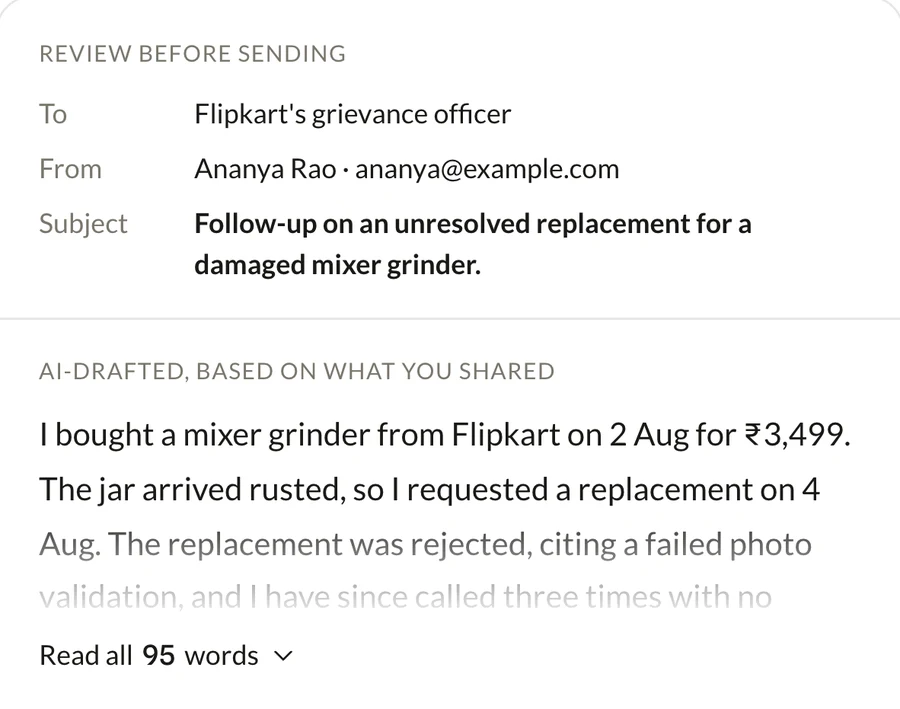
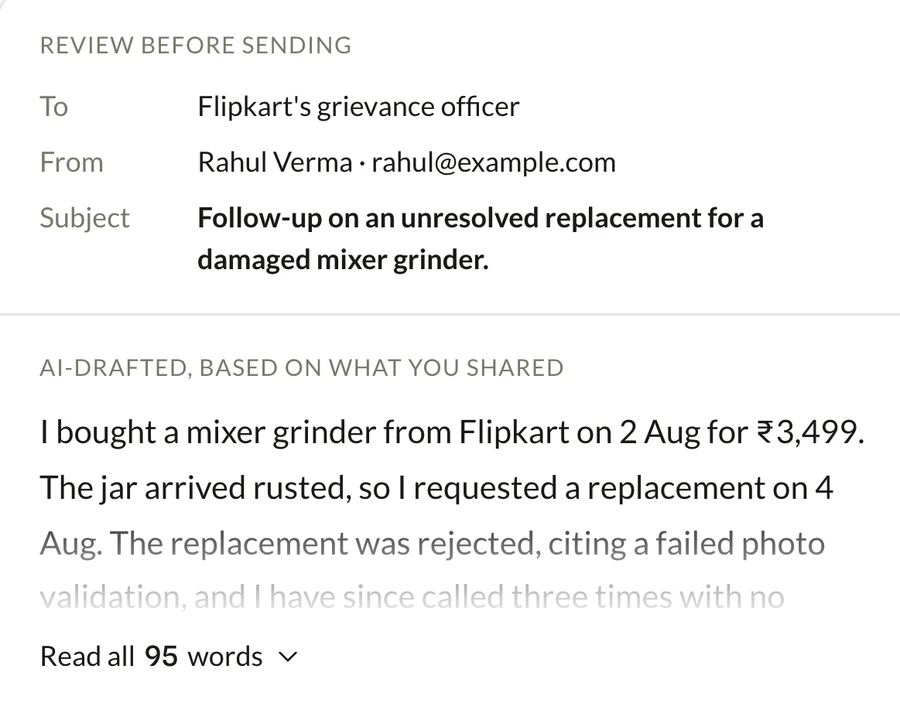
Getbaq walkthrough: one row per phase, the real screen beside it at a readable size; Act screen recaptured with the neutral sample name

diff --git a/getbaq.html b/getbaq.html
@@ -1307,6 +1307,25 @@ html:not(.gb-end) .askdock.is-on{opacity:0!important;visibility:hidden!important
 
 /* the section list stays above the tinted bands, which are positioned and would paint over it */
 .cx-rail{z-index:5}
+
+/* walkthrough: one row per phase on wide screens — the phase and who owns each
+   step on the left, its real screen at a readable size on the right */
+@media(min-width:861px){
+  .cx-trace{grid-template-columns:1fr;gap:0;padding:0 0 0 var(--sp-24)}
+  .cx-trace:before{left:5px;right:auto;top:10px;bottom:10px;width:1.5px;height:auto}
+  .cx-tr-ph{display:grid;grid-template-columns:minmax(0,5fr) minmax(0,7fr);grid-template-rows:auto auto auto 1fr;column-gap:var(--sp-48);padding-bottom:var(--sp-64)}
+  .cx-tr-ph:last-child{padding-bottom:0}
+  .cx-tr-ph:before{left:-24px;top:5px}
+  .cx-tr-n,.cx-tr-s,.cx-tr-steps{grid-column:1}
+  .cx-tr-n{font-size:20px}
+  .cx-tr-steps{margin:0}
+  .cx-tr-ph .cx-pv{grid-column:2;grid-row:1/span 4;margin:0;align-self:start;max-width:none}
+  .cx-tr-ph .cx-zoom img{height:auto}
+  .cx-vis > .cx-legend{margin-top:var(--sp-48)!important}
+}
+.cx-tr-steps li{grid-template-columns:auto 1fr;grid-template-rows:auto auto;align-content:start;column-gap:10px;row-gap:2px}
+.cx-tr-steps .cx-own{grid-column:1;grid-row:1/span 2;align-self:start}
+.cx-tr-steps b,.cx-tr-steps span:not(.cx-own){grid-column:2}
 </style><script defer src="./analytics.js?v=3"></script>
 <script defer src="https://umami-swart-five.vercel.app/script.js" data-website-id="5a59e8a0-e996-42f4-a248-fcf582413c76" data-domains="lokeshbhatia.com,www.lokeshbhatia.com" data-exclude-hash="true" data-before-send="pfBeforeSend"></script>
 <script>
@@ -1403,7 +1422,7 @@ addEventListener("pagereveal",function(e){
 </section>
 <section class="cx-sec " id="walkthrough" data-reveal="">
 <div class="cx-w cx-head "><p class="cx-label">Walkthrough</p><h2 class="cx-h">From messy input to resolution.</h2><p class="cx-lead">One representative case, end to end. Every step says who owns it.</p></div>
-<div class="cx-w cx-vis"><ol class="cx-trace" aria-label="One case, end to end, in four phases"><li class="cx-tr-ph"><p class="cx-tr-n">Understand</p><p class="cx-tr-s">Messy input becomes facts</p><ol class="cx-tr-steps"><li><span class="cx-own o-you"><svg viewBox="0 0 16 16" aria-hidden="true"><circle cx="8" cy="5.5" r="2.5"/><path d="M3 14a5 5 0 0 1 10 0"/></svg>You</span><b>Input</b><span>A screenshot, a chat or typed words</span></li><li><span class="cx-own o-ai"><svg viewBox="0 0 16 16" aria-hidden="true"><path d="M7 1.5 8.4 5.6 12.5 7 8.4 8.4 7 12.5 5.6 8.4 1.5 7l4.1-1.4z"/><path d="M12.5 10.5v4M10.5 12.5h4"/></svg>AI</span><b>Understand</b><span>Flipkart · ₹3,499 · 2 Aug</span></li></ol><figure class="cx-pv cx-pv-sm"><div class="cx-pv-f"><button type="button" class="cx-zoom" data-zoom="./assets/gbf-understand.webp" data-alt="The case file, What I know: Flipkart, ₹3,499, 2 Aug 2026, first complaint 4 Aug 2026" aria-label="Enlarge: The case file, What I know: Flipkart, ₹3,499, 2 Aug 2026, first complaint 4 Aug 2026"><img src="./assets/gbf-understand.webp" width="900" height="438" alt="The case file, What I know: Flipkart, ₹3,499, 2 Aug 2026, first complaint 4 Aug 2026" loading="lazy" decoding="async"><span class="cx-zoom-i"><svg viewBox="0 0 24 24" aria-hidden="true"><path d="M15 3h6v6M9 21H3v-6M21 3l-7 7M3 21l7-7"/></svg></span></button></div></figure></li><li class="cx-tr-ph"><p class="cx-tr-n">Verify</p><p class="cx-tr-s">A sourced rule, then a date</p><ol class="cx-tr-steps"><li><span class="cx-own o-rule"><svg viewBox="0 0 16 16" aria-hidden="true"><path d="M4 1.5h5l3 3v10H4z"/><path d="M9 1.5v3h3M6 8h4M6 10.5h4"/></svg>Rule</span><b>Verify</b><span>E-Commerce Rules 2020 · 4(4)</span></li><li><span class="cx-own o-code"><svg viewBox="0 0 16 16" aria-hidden="true"><path d="M5.5 4.5 2 8l3.5 3.5M10.5 4.5 14 8l-3.5 3.5"/></svg>Code</span><b>Calculate</b><span>Reply by 3 Sep 2026</span></li></ol><figure class="cx-pv cx-pv-sm"><div class="cx-pv-f"><button type="button" class="cx-zoom" data-zoom="./assets/gbf-calculate.webp" data-alt="The deadline card: Flipkart must fix this by 3 Sep 2026, 20 days left" aria-label="Enlarge: The deadline card: Flipkart must fix this by 3 Sep 2026, 20 days left"><img src="./assets/gbf-calculate.webp" width="900" height="435" alt="The deadline card: Flipkart must fix this by 3 Sep 2026, 20 days left" loading="lazy" decoding="async"><span class="cx-zoom-i"><svg viewBox="0 0 24 24" aria-hidden="true"><path d="M15 3h6v6M9 21H3v-6M21 3l-7 7M3 21l7-7"/></svg></span></button></div></figure></li><li class="cx-tr-ph"><p class="cx-tr-n">Act</p><p class="cx-tr-s">A draft, checked, then approved</p><ol class="cx-tr-steps"><li><span class="cx-own o-ai"><svg viewBox="0 0 16 16" aria-hidden="true"><path d="M7 1.5 8.4 5.6 12.5 7 8.4 8.4 7 12.5 5.6 8.4 1.5 7l4.1-1.4z"/><path d="M12.5 10.5v4M10.5 12.5h4"/></svg>AI</span><b>Draft</b><span>A short, factual complaint</span></li><li><span class="cx-own o-code"><svg viewBox="0 0 16 16" aria-hidden="true"><path d="M5.5 4.5 2 8l3.5 3.5M10.5 4.5 14 8l-3.5 3.5"/></svg>Code</span><b>Safety check</b><span>Facts, rule and recipient checked</span></li><li><span class="cx-own o-you"><svg viewBox="0 0 16 16" aria-hidden="true"><circle cx="8" cy="5.5" r="2.5"/><path d="M3 14a5 5 0 0 1 10 0"/></svg>You</span><b>Approve</b><span>Nothing is sent without it</span></li></ol><figure class="cx-pv cx-pv-sm"><div class="cx-pv-f"><button type="button" class="cx-zoom" data-zoom="./assets/gbf-act.webp" data-alt="Review before sending: to Flipkart’s grievance officer, with the AI-drafted letter" aria-label="Enlarge: Review before sending: to Flipkart’s grievance officer, with the AI-drafted letter"><img src="./assets/gbf-act.webp" width="900" height="709" alt="Review before sending: to Flipkart’s grievance officer, with the AI-drafted letter" loading="lazy" decoding="async"><span class="cx-zoom-i"><svg viewBox="0 0 24 24" aria-hidden="true"><path d="M15 3h6v6M9 21H3v-6M21 3l-7 7M3 21l7-7"/></svg></span></button></div></figure></li><li class="cx-tr-ph"><p class="cx-tr-n">Persist</p><p class="cx-tr-s">The case outlives the chat</p><ol class="cx-tr-steps"><li><span class="cx-own o-case"><svg viewBox="0 0 16 16" aria-hidden="true"><rect x="2" y="3" width="12" height="10" rx="1.5"/><path d="M2 6h12"/></svg>Case</span><b>Track</b><span>Waiting · 20 days left</span></li><li><span class="cx-own o-case"><svg viewBox="0 0 16 16" aria-hidden="true"><rect x="2" y="3" width="12" height="10" rx="1.5"/><path d="M2 6h12"/></svg>Case</span><b>Escalate or resolve</b><span>1915 if they go quiet; still the user’s tap</span></li></ol><figure class="cx-pv cx-pv-sm"><div class="cx-pv-f"><button type="button" class="cx-zoom" data-zoom="./assets/gbf-track.webp" data-alt="20 days left, waiting for Flipkart to reply by 3 Sep 2026" aria-label="Enlarge: 20 days left, waiting for Flipkart to reply by 3 Sep 2026"><img src="./assets/gbf-track.webp" width="900" height="296" alt="20 days left, waiting for Flipkart to reply by 3 Sep 2026" loading="lazy" decoding="async"><span class="cx-zoom-i"><svg viewBox="0 0 24 24" aria-hidden="true"><path d="M15 3h6v6M9 21H3v-6M21 3l-7 7M3 21l7-7"/></svg></span></button></div></figure></li></ol>
+<div class="cx-w cx-vis"><ol class="cx-trace" aria-label="One case, end to end, in four phases"><li class="cx-tr-ph"><p class="cx-tr-n">Understand</p><p class="cx-tr-s">Messy input becomes facts</p><ol class="cx-tr-steps"><li><span class="cx-own o-you"><svg viewBox="0 0 16 16" aria-hidden="true"><circle cx="8" cy="5.5" r="2.5"/><path d="M3 14a5 5 0 0 1 10 0"/></svg>You</span><b>Input</b><span>A screenshot, a chat or typed words</span></li><li><span class="cx-own o-ai"><svg viewBox="0 0 16 16" aria-hidden="true"><path d="M7 1.5 8.4 5.6 12.5 7 8.4 8.4 7 12.5 5.6 8.4 1.5 7l4.1-1.4z"/><path d="M12.5 10.5v4M10.5 12.5h4"/></svg>AI</span><b>Understand</b><span>Flipkart · ₹3,499 · 2 Aug</span></li></ol><figure class="cx-pv cx-pv-sm"><div class="cx-pv-f"><button type="button" class="cx-zoom" data-zoom="./assets/gbf-understand.webp" data-alt="The case file, What I know: Flipkart, ₹3,499, 2 Aug 2026, first complaint 4 Aug 2026" aria-label="Enlarge: The case file, What I know: Flipkart, ₹3,499, 2 Aug 2026, first complaint 4 Aug 2026"><img src="./assets/gbf-understand.webp" width="900" height="438" alt="The case file, What I know: Flipkart, ₹3,499, 2 Aug 2026, first complaint 4 Aug 2026" loading="lazy" decoding="async"><span class="cx-zoom-i"><svg viewBox="0 0 24 24" aria-hidden="true"><path d="M15 3h6v6M9 21H3v-6M21 3l-7 7M3 21l7-7"/></svg></span></button></div></figure></li><li class="cx-tr-ph"><p class="cx-tr-n">Verify</p><p class="cx-tr-s">A sourced rule, then a date</p><ol class="cx-tr-steps"><li><span class="cx-own o-rule"><svg viewBox="0 0 16 16" aria-hidden="true"><path d="M4 1.5h5l3 3v10H4z"/><path d="M9 1.5v3h3M6 8h4M6 10.5h4"/></svg>Rule</span><b>Verify</b><span>E-Commerce Rules 2020 · 4(4)</span></li><li><span class="cx-own o-code"><svg viewBox="0 0 16 16" aria-hidden="true"><path d="M5.5 4.5 2 8l3.5 3.5M10.5 4.5 14 8l-3.5 3.5"/></svg>Code</span><b>Calculate</b><span>Reply by 3 Sep 2026</span></li></ol><figure class="cx-pv cx-pv-sm"><div class="cx-pv-f"><button type="button" class="cx-zoom" data-zoom="./assets/gbf-calculate.webp" data-alt="The deadline card: Flipkart must fix this by 3 Sep 2026, 20 days left" aria-label="Enlarge: The deadline card: Flipkart must fix this by 3 Sep 2026, 20 days left"><img src="./assets/gbf-calculate.webp" width="900" height="435" alt="The deadline card: Flipkart must fix this by 3 Sep 2026, 20 days left" loading="lazy" decoding="async"><span class="cx-zoom-i"><svg viewBox="0 0 24 24" aria-hidden="true"><path d="M15 3h6v6M9 21H3v-6M21 3l-7 7M3 21l7-7"/></svg></span></button></div></figure></li><li class="cx-tr-ph"><p class="cx-tr-n">Act</p><p class="cx-tr-s">A draft, checked, then approved</p><ol class="cx-tr-steps"><li><span class="cx-own o-ai"><svg viewBox="0 0 16 16" aria-hidden="true"><path d="M7 1.5 8.4 5.6 12.5 7 8.4 8.4 7 12.5 5.6 8.4 1.5 7l4.1-1.4z"/><path d="M12.5 10.5v4M10.5 12.5h4"/></svg>AI</span><b>Draft</b><span>A short, factual complaint</span></li><li><span class="cx-own o-code"><svg viewBox="0 0 16 16" aria-hidden="true"><path d="M5.5 4.5 2 8l3.5 3.5M10.5 4.5 14 8l-3.5 3.5"/></svg>Code</span><b>Safety check</b><span>Facts, rule and recipient checked</span></li><li><span class="cx-own o-you"><svg viewBox="0 0 16 16" aria-hidden="true"><circle cx="8" cy="5.5" r="2.5"/><path d="M3 14a5 5 0 0 1 10 0"/></svg>You</span><b>Approve</b><span>Nothing is sent without it</span></li></ol><figure class="cx-pv cx-pv-sm"><div class="cx-pv-f"><button type="button" class="cx-zoom" data-zoom="./assets/gbf-act.webp" data-alt="Review before sending: to Flipkart’s grievance officer, with the AI-drafted letter" aria-label="Enlarge: Review before sending: to Flipkart’s grievance officer, with the AI-drafted letter"><img src="./assets/gbf-act.webp" width="900" height="710" alt="Review before sending: to Flipkart’s grievance officer, with the AI-drafted letter" loading="lazy" decoding="async"><span class="cx-zoom-i"><svg viewBox="0 0 24 24" aria-hidden="true"><path d="M15 3h6v6M9 21H3v-6M21 3l-7 7M3 21l7-7"/></svg></span></button></div></figure></li><li class="cx-tr-ph"><p class="cx-tr-n">Persist</p><p class="cx-tr-s">The case outlives the chat</p><ol class="cx-tr-steps"><li><span class="cx-own o-case"><svg viewBox="0 0 16 16" aria-hidden="true"><rect x="2" y="3" width="12" height="10" rx="1.5"/><path d="M2 6h12"/></svg>Case</span><b>Track</b><span>Waiting · 20 days left</span></li><li><span class="cx-own o-case"><svg viewBox="0 0 16 16" aria-hidden="true"><rect x="2" y="3" width="12" height="10" rx="1.5"/><path d="M2 6h12"/></svg>Case</span><b>Escalate or resolve</b><span>1915 if they go quiet; still the user’s tap</span></li></ol><figure class="cx-pv cx-pv-sm"><div class="cx-pv-f"><button type="button" class="cx-zoom" data-zoom="./assets/gbf-track.webp" data-alt="20 days left, waiting for Flipkart to reply by 3 Sep 2026" aria-label="Enlarge: 20 days left, waiting for Flipkart to reply by 3 Sep 2026"><img src="./assets/gbf-track.webp" width="900" height="296" alt="20 days left, waiting for Flipkart to reply by 3 Sep 2026" loading="lazy" decoding="async"><span class="cx-zoom-i"><svg viewBox="0 0 24 24" aria-hidden="true"><path d="M15 3h6v6M9 21H3v-6M21 3l-7 7M3 21l7-7"/></svg></span></button></div></figure></li></ol>
 <p class="cx-legend"><span>Who owns each step</span><span class="cx-own o-ai"><svg viewBox="0 0 16 16" aria-hidden="true"><path d="M7 1.5 8.4 5.6 12.5 7 8.4 8.4 7 12.5 5.6 8.4 1.5 7l4.1-1.4z"/><path d="M12.5 10.5v4M10.5 12.5h4"/></svg>AI</span><span class="cx-own o-rule"><svg viewBox="0 0 16 16" aria-hidden="true"><path d="M4 1.5h5l3 3v10H4z"/><path d="M9 1.5v3h3M6 8h4M6 10.5h4"/></svg>Rule</span><span class="cx-own o-code"><svg viewBox="0 0 16 16" aria-hidden="true"><path d="M5.5 4.5 2 8l3.5 3.5M10.5 4.5 14 8l-3.5 3.5"/></svg>Code</span><span class="cx-own o-you"><svg viewBox="0 0 16 16" aria-hidden="true"><circle cx="8" cy="5.5" r="2.5"/><path d="M3 14a5 5 0 0 1 10 0"/></svg>You</span><span class="cx-own o-case"><svg viewBox="0 0 16 16" aria-hidden="true"><rect x="2" y="3" width="12" height="10" rx="1.5"/><path d="M2 6h12"/></svg>Case</span></p></div>
 <p class="cx-w cx-note">Background follow-ups while the app is closed aren’t built yet. The case state, the deadline and the next step persist.</p>
 </section>
